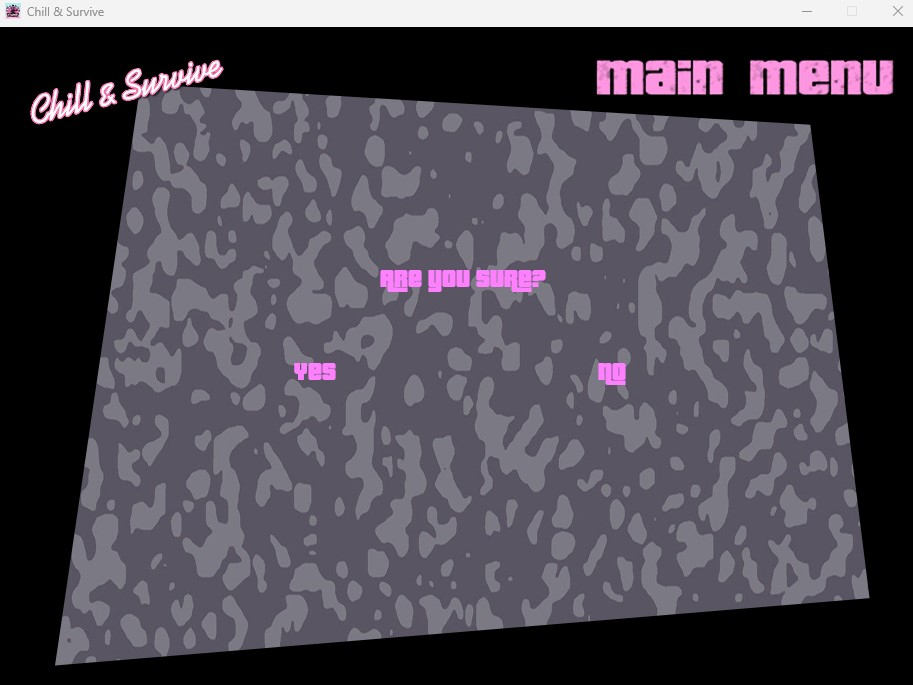
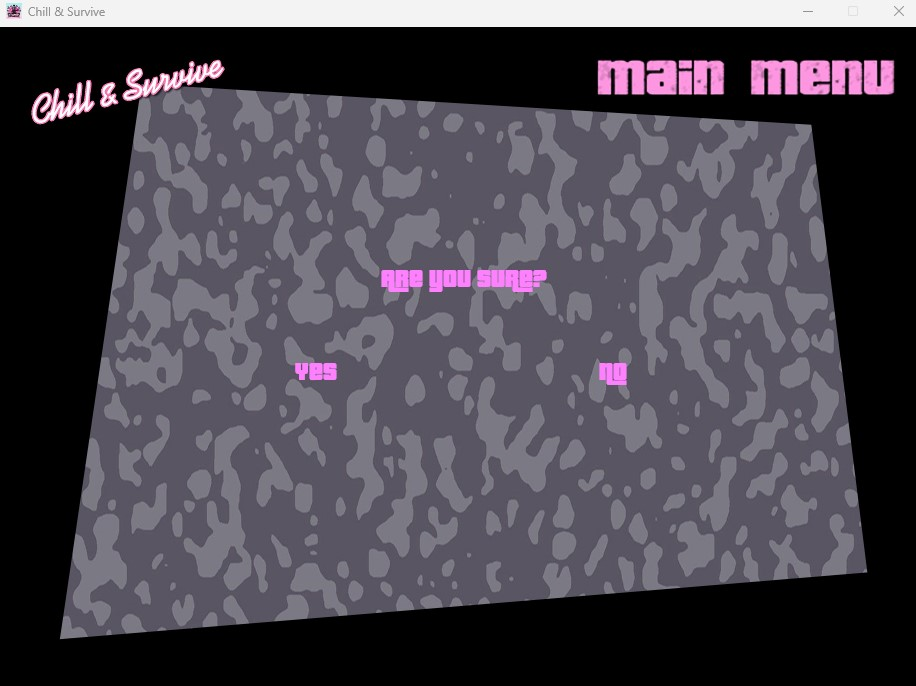
Updated new menu backgrounds

diff --git a/App05_RPG_Game/Form1.Designer.cs b/App05_RPG_Game/Form1.Designer.cs
@@ -128,7 +128,7 @@
             // 
             // startMenu
             // 
-            this.startMenu.BackgroundImage = global::App05_RPG_Game.Properties.Resources.UpdatedStartMenu2;
+            this.startMenu.BackgroundImage = global::App05_RPG_Game.Properties.Resources.UpdatedStartMenu3;
             this.startMenu.Controls.Add(this.quitButton);
             this.startMenu.Controls.Add(this.startButton);
             this.startMenu.Dock = System.Windows.Forms.DockStyle.Fill;
@@ -180,7 +180,7 @@
             // 
             // PauseMenu
             // 
-            this.PauseMenu.BackgroundImage = global::App05_RPG_Game.Properties.Resources.UpdatedMenu2;
+            this.PauseMenu.BackgroundImage = global::App05_RPG_Game.Properties.Resources.UpdatedMenu3;
             this.PauseMenu.Controls.Add(this.restartButton);
             this.PauseMenu.Controls.Add(this.QuitGame);
             this.PauseMenu.Controls.Add(this.resumeGame);
@@ -265,7 +265,7 @@
             // 
             // newStartMenu
             // 
-            this.newStartMenu.BackgroundImage = global::App05_RPG_Game.Properties.Resources.UpdatedStartMenu2;
+            this.newStartMenu.BackgroundImage = global::App05_RPG_Game.Properties.Resources.UpdatedStartMenu3;
             this.newStartMenu.Controls.Add(this.Quit);
             this.newStartMenu.Controls.Add(this.StartNewGame);
             this.newStartMenu.Dock = System.Windows.Forms.DockStyle.Fill;
@@ -330,7 +330,7 @@
             // 
             // confirmationPanel
             // 
-            this.confirmationPanel.BackgroundImage = global::App05_RPG_Game.Properties.Resources.UpdatedMenu2;
+            this.confirmationPanel.BackgroundImage = global::App05_RPG_Game.Properties.Resources.UpdatedMenu3;
             this.confirmationPanel.Controls.Add(this.No);
             this.confirmationPanel.Controls.Add(this.Yes);
             this.confirmationPanel.Controls.Add(this.confirmation);

diff --git a/App05_RPG_Game/Form1.cs b/App05_RPG_Game/Form1.cs
@@ -82,7 +82,7 @@ namespace App05_RPG_Game
         {
             startMenuBool = true;
             confirmationPanel.Show();
-            confirmationPanel.BackgroundImage = Properties.Resources.UpdatedStartMenu2;
+            confirmationPanel.BackgroundImage = Properties.Resources.UpdatedStartMenu3;
             confirmationPanel.BringToFront();
             
             SoundPlayer menuclick = new SoundPlayer(Properties.Resources.MenuEnterEdited);
@@ -122,7 +122,7 @@ namespace App05_RPG_Game
             restartBool = true;
             pauseMenuBool = true;
             confirmationPanel.Show();
-            confirmationPanel.BackgroundImage = Properties.Resources.UpdatedMenu2;
+            confirmationPanel.BackgroundImage = Properties.Resources.UpdatedMenu3;
             confirmationPanel.BringToFront();
             
             SoundPlayer menuclick = new SoundPlayer(Properties.Resources.MenuEnterEdited);
@@ -138,7 +138,7 @@ namespace App05_RPG_Game
         {
             pauseMenuBool = true;
             confirmationPanel.Show();
-            confirmationPanel.BackgroundImage = Properties.Resources.UpdatedMenu2;
+            confirmationPanel.BackgroundImage = Properties.Resources.UpdatedMenu3;
             confirmationPanel.BringToFront();
             
             SoundPlayer menuclick = new SoundPlayer(Properties.Resources.MenuEnterEdited);
@@ -176,7 +176,7 @@ namespace App05_RPG_Game
         {
             newStartMenuBool = true;
             confirmationPanel.Show();
-            confirmationPanel.BackgroundImage = Properties.Resources.UpdatedStartMenu2;
+            confirmationPanel.BackgroundImage = Properties.Resources.UpdatedStartMenu3;
             confirmationPanel.BringToFront();
             
             SoundPlayer menuclick = new SoundPlayer(Properties.Resources.MenuEnterEdited);

diff --git a/App05_RPG_Game/Properties/Resources.Designer.cs b/App05_RPG_Game/Properties/Resources.Designer.cs
@@ -198,9 +198,29 @@ namespace App05_RPG_Game.Properties {
         /// <summary>
         ///   Looks up a localized resource of type System.Drawing.Bitmap.
         /// </summary>
+        internal static System.Drawing.Bitmap UpdatedMenu3 {
+            get {
+                object obj = ResourceManager.GetObject("UpdatedMenu3", resourceCulture);
+                return ((System.Drawing.Bitmap)(obj));
+            }
+        }
+        
+        /// <summary>
+        ///   Looks up a localized resource of type System.Drawing.Bitmap.
+        /// </summary>
         internal static System.Drawing.Bitmap UpdatedStartMenu2 {
             get {
                 object obj = ResourceManager.GetObject("UpdatedStartMenu2", resourceCulture);
+                return ((System.Drawing.Bitmap)(obj));
+            }
+        }
+        
+        /// <summary>
+        ///   Looks up a localized resource of type System.Drawing.Bitmap.
+        /// </summary>
+        internal static System.Drawing.Bitmap UpdatedStartMenu3 {
+            get {
+                object obj = ResourceManager.GetObject("UpdatedStartMenu3", resourceCulture);
                 return ((System.Drawing.Bitmap)(obj));
             }
         }
